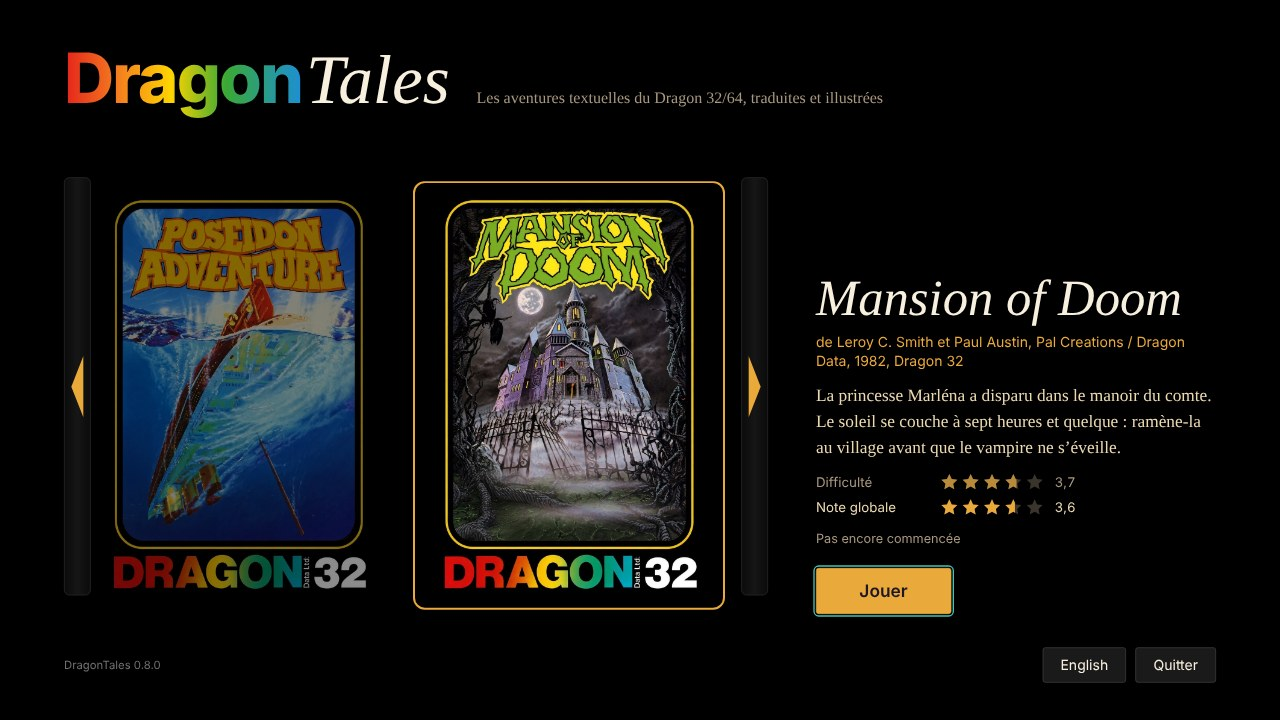
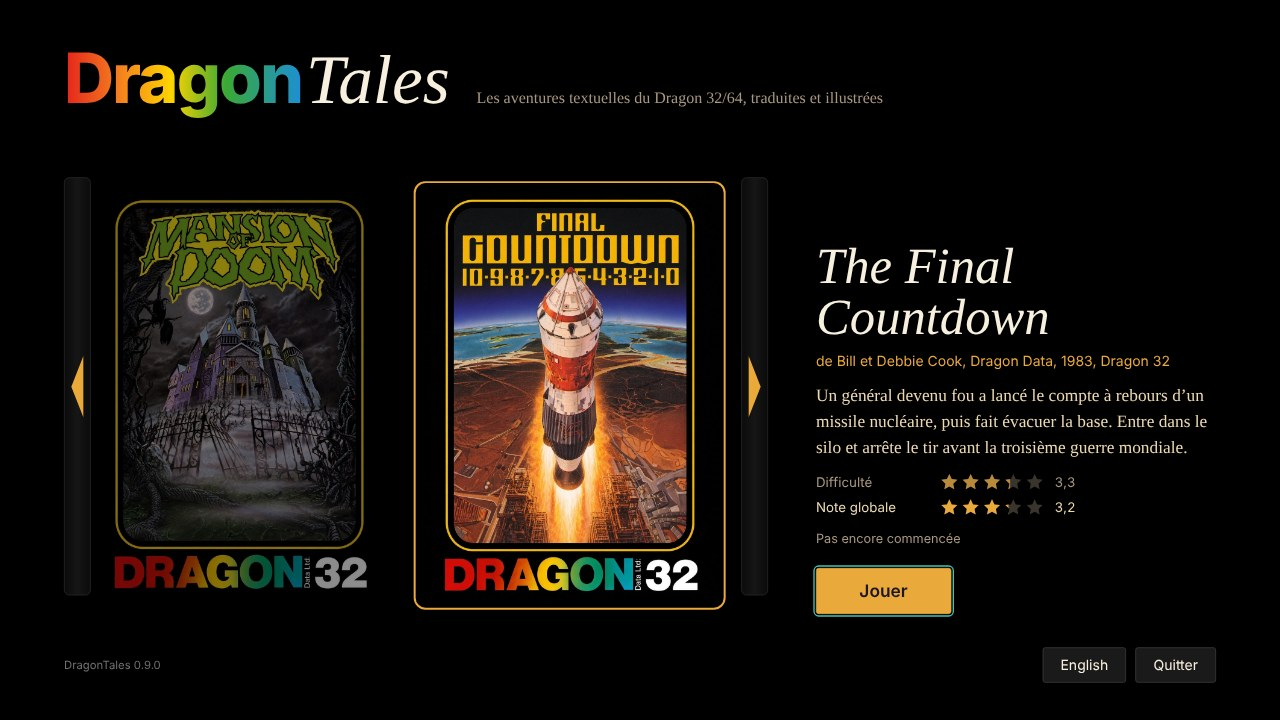
Version 0.9.0 : The Final Countdown rejoint l'étagère (notes 3,3 et 3,2)
Claude-Session: https://claude.ai/code/session_01BzSas1tP4TvGfgXSawBHE9

diff --git a/aventures/finalcountdown/aventure.js b/aventures/finalcountdown/aventure.js
@@ -1,6 +1,5 @@
 // The Final Countdown — Bill et Debbie Cook, Dragon Data, 1983 — fiche de l'aventure pour DragonTales.
-// INTÉGRATION EN COURS (17/11/2026) : voir docs/PLAN-FINALCOUNTDOWN.md. Le dossier contient EN-COURS.md : build.py ne
-// l'assemble qu'avec « --tout ».
+// Intégrée le 18/11/2026 (version 0.9.0) : voir docs/PLAN-FINALCOUNTDOWN.md.
 // Ce fichier est assemblé après data.js, hints.js, scenes.js, sons.js et textes.js du même dossier : ROOMS, POS, HINTS,
 // SCENES, FC_SFX/fcSfxFor/fcAmbient, FR et fcSay/fcClean.
 // Jeu en Dragon BASIC (moteur/basic.js), du même moule que S.S. Poseidon. La partie se lit dans ses variables :
@@ -19,6 +18,8 @@ const WORD={7:'SNAKE',9:'RADIO',10:'UNIFORM',11:'TASER',13:'PAPERS',15:'CAMERA',
 DragonTales.register({
  id:'finalcountdown', order:5,
  storage:'finalcountdown',
+ // notes sur 5 (jugement du jeu d'origine, 18/11/2026) : difficulté (plus c'est haut, plus c'est dur) et note globale
+ rating:{difficulty:3.3,overall:3.2},
  title:'The Final Countdown', author:{fr:'Bill et Debbie Cook',en:'Bill and Debbie Cook'}, publisher:'Dragon Data', year:1983, system:'Dragon 32',
  blurb:{
   fr:'Un général devenu fou a lancé le compte à rebours d’un missile nucléaire, puis fait évacuer la base. Entre dans le silo et arrête le tir avant la troisième guerre mondiale.',

diff --git a/tests/essai-finalcountdown.js b/tests/essai-finalcountdown.js
@@ -1,7 +1,7 @@
 // Essai de The Final Countdown (jeu en BASIC à écran partagé, comme S.S. Poseidon) dans Chrome : choix du niveau,
 // commandes françaises, pièce magique, partie entière (le général et le labyrinthe sont au hasard : l'essai réagit),
 // version classique (français et anglais), fins expliquées (incendie, lancement par erreur, général).
-//   python build.py && node tests/essai-finalcountdown.js      (tant que l'aventure est en cours : build.py --tout)
+//   python build.py && node tests/essai-finalcountdown.js
 let chromium; try{ ({chromium}=require('playwright')); }catch(e){ ({chromium}=require('/opt/npm-tools/node_modules/playwright')); }
 const fs=require('fs'), path=require('path');
 const PAGE='file://'+path.resolve(__dirname,'..','DragonTales.html'), OUT=path.resolve(__dirname,'out'); fs.mkdirSync(OUT,{recursive:true});

diff --git a/README.md b/README.md
@@ -24,6 +24,8 @@ DragonTales l'habille : textes traduits, jeu à la souris, carte, illustrations,
 
 ![Mansion of Doom en version moderne](docs/mansion.jpg)
 
+![The Final Countdown en version moderne](docs/finalcountdown.jpg)
+
 ## Aventures
 
 | Aventure | Auteur, éditeur | Année | Machine | Langues |
@@ -32,6 +34,7 @@ DragonTales l'habille : textes traduits, jeu à la souris, carte, illustrations,
 | Dragon Mountain | Dragon Data | 1982 | Dragon 32 | français, anglais |
 | S.S. Poseidon | Bill et Debbie Cook, Dragon Data | 1982 | Dragon 32 | français, anglais |
 | Mansion of Doom | Leroy C. Smith et Paul Austin, Pal Creations / Dragon Data | 1982 | Dragon 32 | français, anglais |
+| The Final Countdown | Bill et Debbie Cook, Dragon Data | 1983 | Dragon 32 | français, anglais |
 
 ## Jouer
 
@@ -102,6 +105,7 @@ node tests/sauvegardes.js           # dans Chrome : pièces magiques, journal co
 node tests/essai-dragonmountain.js  # dans Chrome : Dragon Mountain (partie entière, sauvegardes, langues, mort)
 node tests/essai-poseidon.js        # dans Chrome : S.S. Poseidon (niveau, partie entière, écran du Dragon, mort)
 node tests/essai-mansion.js         # dans Chrome : Mansion of Doom (partie entière, écrans en couleur, mots de passe, fins)
+node tests/essai-finalcountdown.js  # dans Chrome : The Final Countdown (niveau, partie entière malgré le hasard, fins)
 ```
 
 Les essais dans Chrome demandent `npm install playwright` et Chrome (variable `CHROME` pour indiquer son chemin).
@@ -118,6 +122,8 @@ Attention : les fichiers `solution.txt` des aventures dévoilent tout le jeu.
 - **S.S. Poseidon** (Poseidon Adventure) : programme et textes d'origine de Bill et Debbie Cook, publiés par Dragon Data en 1982.
   Le programme et la boîte d'origine appartiennent à leurs ayants droit.
 - **Mansion of Doom** : programme et textes d'origine de Leroy C. Smith et Paul Austin, Pal Creations, diffusés par Dragon Data en 1982.
+  Le programme et la boîte d'origine appartiennent à leurs ayants droit.
+- **The Final Countdown** : programme et textes d'origine de Bill et Debbie Cook, publiés par Dragon Data en 1983.
   Le programme et la boîte d'origine appartiennent à leurs ayants droit.
 - Portage, traductions françaises, interface, illustrations vectorielles, indices et effets sonores : projet DragonTales.
 - Musiques : « Awakening in the Desert » (El Diablero) et « The Guardian's Hoard » (Dragon Mountain), créées pour ce projet.

diff --git a/README.en.md b/README.en.md
@@ -24,6 +24,8 @@ DragonTales dresses it up: translated texts, mouse play, a map, illustrations, s
 
 ![Mansion of Doom in the modern version](docs/mansion.jpg)
 
+![The Final Countdown in the modern version](docs/finalcountdown.jpg)
+
 ## Adventures
 
 | Adventure | Author, publisher | Year | Machine | Languages |
@@ -32,6 +34,7 @@ DragonTales dresses it up: translated texts, mouse play, a map, illustrations, s
 | Dragon Mountain | Dragon Data | 1982 | Dragon 32 | French, English |
 | S.S. Poseidon | Bill and Debbie Cook, Dragon Data | 1982 | Dragon 32 | French, English |
 | Mansion of Doom | Leroy C. Smith and Paul Austin, Pal Creations / Dragon Data | 1982 | Dragon 32 | French, English |
+| The Final Countdown | Bill and Debbie Cook, Dragon Data | 1983 | Dragon 32 | French, English |
 
 ## Play
 
@@ -97,6 +100,7 @@ node tests/sauvegardes.js           # in Chrome: magic coins, kept history, expo
 node tests/essai-dragonmountain.js  # in Chrome: Dragon Mountain (full game, saves, languages, death)
 node tests/essai-poseidon.js        # in Chrome: S.S. Poseidon (skill level, full game, Dragon screen, death)
 node tests/essai-mansion.js         # in Chrome: Mansion of Doom (full game, colour screens, passwords, endings)
+node tests/essai-finalcountdown.js  # in Chrome: The Final Countdown (skill level, full game despite randomness, endings)
 ```
 
 The Chrome tests need `npm install playwright` and Chrome (set `CHROME` to its path if needed).
@@ -113,6 +117,8 @@ Warning: the adventures' `solution.txt` files spoil the whole game.
 - **S.S. Poseidon** (Poseidon Adventure): original program and texts by Bill and Debbie Cook, published by Dragon Data in 1982.
   The program and the original box belong to their rights holders.
 - **Mansion of Doom**: original program and texts by Leroy C. Smith and Paul Austin, Pal Creations, distributed by Dragon Data in 1982.
+  The original program and box belong to their rights holders.
+- **The Final Countdown**: original program and texts by Bill and Debbie Cook, published by Dragon Data in 1983.
   The original program and box belong to their rights holders.
 - Port, French translations, interface, vector illustrations, hints and sound effects: the DragonTales project.
 - Music: “Awakening in the Desert” (El Diablero) and “The Guardian's Hoard” (Dragon Mountain), made for this project.

diff --git a/docs/PLAN-FINALCOUNTDOWN.md b/docs/PLAN-FINALCOUNTDOWN.md
@@ -2,7 +2,7 @@
 
 Cinquième aventure de DragonTales, écrite par Bill et Debbie Cook, les auteurs de S.S. Poseidon. Le programme est du même moule : écran partagé, choix du niveau, compte des coups. Il tourne sur `moteur/basic.js`.
 
-Au 17/11/2026, l'aventure tourne, se gagne, elle est traduite, illustrée et sonorisée. Elle s'affiche avec `python build.py --tout`. Le dossier contient `EN-COURS.md`, donc elle ne sort pas encore dans les versions publiées.
+Publiée dans la version 0.9.0 (18/11/2026).
 
 ## Le jeu en bref
 
@@ -89,7 +89,7 @@ La solution d'essai fait 51 commandes, avec la graine 1 et le niveau expert.
   - **Au poste de tir** : le panneau, le fil coupé, le décollage du missile.
   - **Le compte à rebours** : une sirène à dix coups de la fin, puis un bip à chaque coup.
   - **Ambiances** : salle informatique, radar, transmissions, néons du silo, pas dans le labyrinthe.
-- **Essai Chrome** (`tests/essai-finalcountdown.js`, dans l'intégration continue avec `build.py --tout`) :
+- **Essai Chrome** (`tests/essai-finalcountdown.js`, dans l'intégration continue) :
   - niveau, commandes françaises, pièce magique ;
   - partie entière en réagissant au général et au labyrinthe ;
   - version classique en français et en anglais ;
@@ -99,9 +99,10 @@ La solution d'essai fait 51 commandes, avec la graine 1 et le niveau expert.
 
 « The Final Countdown – T Minus Zero » (Suno), 3 min 35 : synthés de thriller de guerre froide des années 80. `musique.ogg` : Opus 72 kbit/s, fondu final de 0,8 s, niveau moyen −16,1 dB comme les autres. Elle joue sur l'écran d'introduction et, avec l'option, dehors.
 
-### 7. À faire
+### 7. Publication — 0.9.0 (18/11/2026)
 
-1. Note sur 5, publication.
+- Notes : difficulté 3,3 (l'escalier caché derrière l'armoire, les gants, le général qui tue au moindre faux pas, 75 coups au niveau expert) ; note globale 3,2 (courte et tendue, bonne ambiance de guerre froide, mais linéaire et dépendante du hasard).
+- `EN-COURS.md` retiré.
 
 ## Décisions prises (17/11/2026)
 

diff --git a/CHANGELOG.md b/CHANGELOG.md
@@ -1,5 +1,26 @@
 # Journal des versions
 
+## 0.9.0 — 18 novembre 2026
+
+Cinquième aventure : **The Final Countdown** (Bill et Debbie Cook, Dragon Data, 1983).
+
+### The Final Countdown
+- Un général devenu fou a lancé le compte à rebours d'un missile nucléaire : 20 lieux, de la camionnette au silo, à
+  parcourir avant la fin du compte. Choix du niveau au départ (75, 125 ou 250 coups), compte à rebours affiché.
+- Le général surgit au hasard sous terre : la version moderne l'annonce et le dessine ; il faut tirer sur lui sur-le-champ.
+- Traduction française complète, commandes françaises (APPUYER SUR TROIS, MONTRER LES PAPIERS…).
+- Version classique fidèle à l'écran du Dragon (écran partagé, comme Poseidon).
+- Une illustration par lieu, le compte à rebours en chiffres rouges dans les salles de contrôle ; carte sur deux niveaux.
+- L'incendie du bureau du commandant, sans extincteur, est une mort expliquée ; le piège prévu par les auteurs au poste
+  de contrôle de tir (le bouton UN lance le missile), que le programme ne déclenchait jamais, est rétabli.
+- Pièces magiques : douze étapes d'indices et cinq indices de situation.
+- Bruitages de la base dans la version moderne (le jeu d'origine est muet), sirène à dix coups de la fin.
+- Musique « T Minus Zero » (Suno) : écran d'introduction, et dehors si l'option est activée.
+- Notes sur l'étagère : difficulté 3,3, note globale 3,2.
+
+### Moteur
+- BASIC : une boucle FOR de même variable ne traverse plus un GOSUB (comme le BASIC Microsoft).
+
 ## 0.8.0 — 17 novembre 2026
 
 Quatrième aventure : **Mansion of Doom** (Leroy C. Smith et Paul Austin, Pal Creations, diffusé par Dragon Data, 1982).

diff --git a/docs/versions/v0.9.0.md b/docs/versions/v0.9.0.md
@@ -1,0 +1,20 @@
+Une nouvelle aventure rejoint l'étagère : **The Final Countdown** (Bill et Debbie Cook, Dragon Data, 1983), par les auteurs de S.S. Poseidon.
+
+Un général devenu fou a lancé le compte à rebours d'un missile nucléaire, puis fait évacuer sa base en plein désert. Entre dans le silo et arrête le tir avant la troisième guerre mondiale… et méfie-toi du général, qui rôde encore dans les couloirs.
+
+- Choix du niveau (75, 125 ou 250 coups) et compte à rebours affiché.
+- Traduction française complète, version classique fidèle à l'écran du Dragon.
+- Une illustration par lieu, le compte à rebours en chiffres rouges dans les salles de contrôle.
+- Le piège oublié des auteurs rétabli, l'incendie sans extincteur expliqué.
+- Pièces magiques, bruitages de la base, musique « T Minus Zero ».
+
+## Jouer
+
+1. Télécharge `DragonTales-0.9.0.zip` ci-dessous et décompresse-le.
+2. Sous Windows, lance `Jouer.bat` (plein écran dans Edge ou Chrome). Ailleurs, ouvre `DragonTales.html` dans un navigateur récent.
+
+On peut aussi jouer directement dans le navigateur sur https://kraran.itch.io/dragontales
+
+Les parties et sauvegardes des versions précédentes sont conservées.
+
+Le détail est dans [CHANGELOG.md](https://github.com/Kraran/DragonTales/blob/main/CHANGELOG.md).
